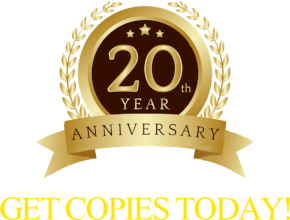
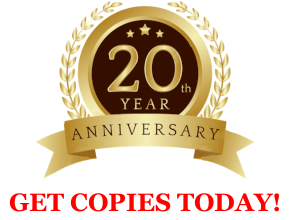
red text

Changed region(s): [[0.0, 0.8727, 1.0, 1.0]]

diff --git a/pages/promo.js b/pages/promo.js
@@ -33,7 +33,7 @@ const Promo = () => {
             </div>
 
             <div style={{ textAlign: 'center', marginTop: '2%' }}>
-                <img src="/Beacon.png" style={{ width: '60%' }}
+                <img src="/Beacon.png" style={{ width: '50%' }}
                 />
             </div>
 
